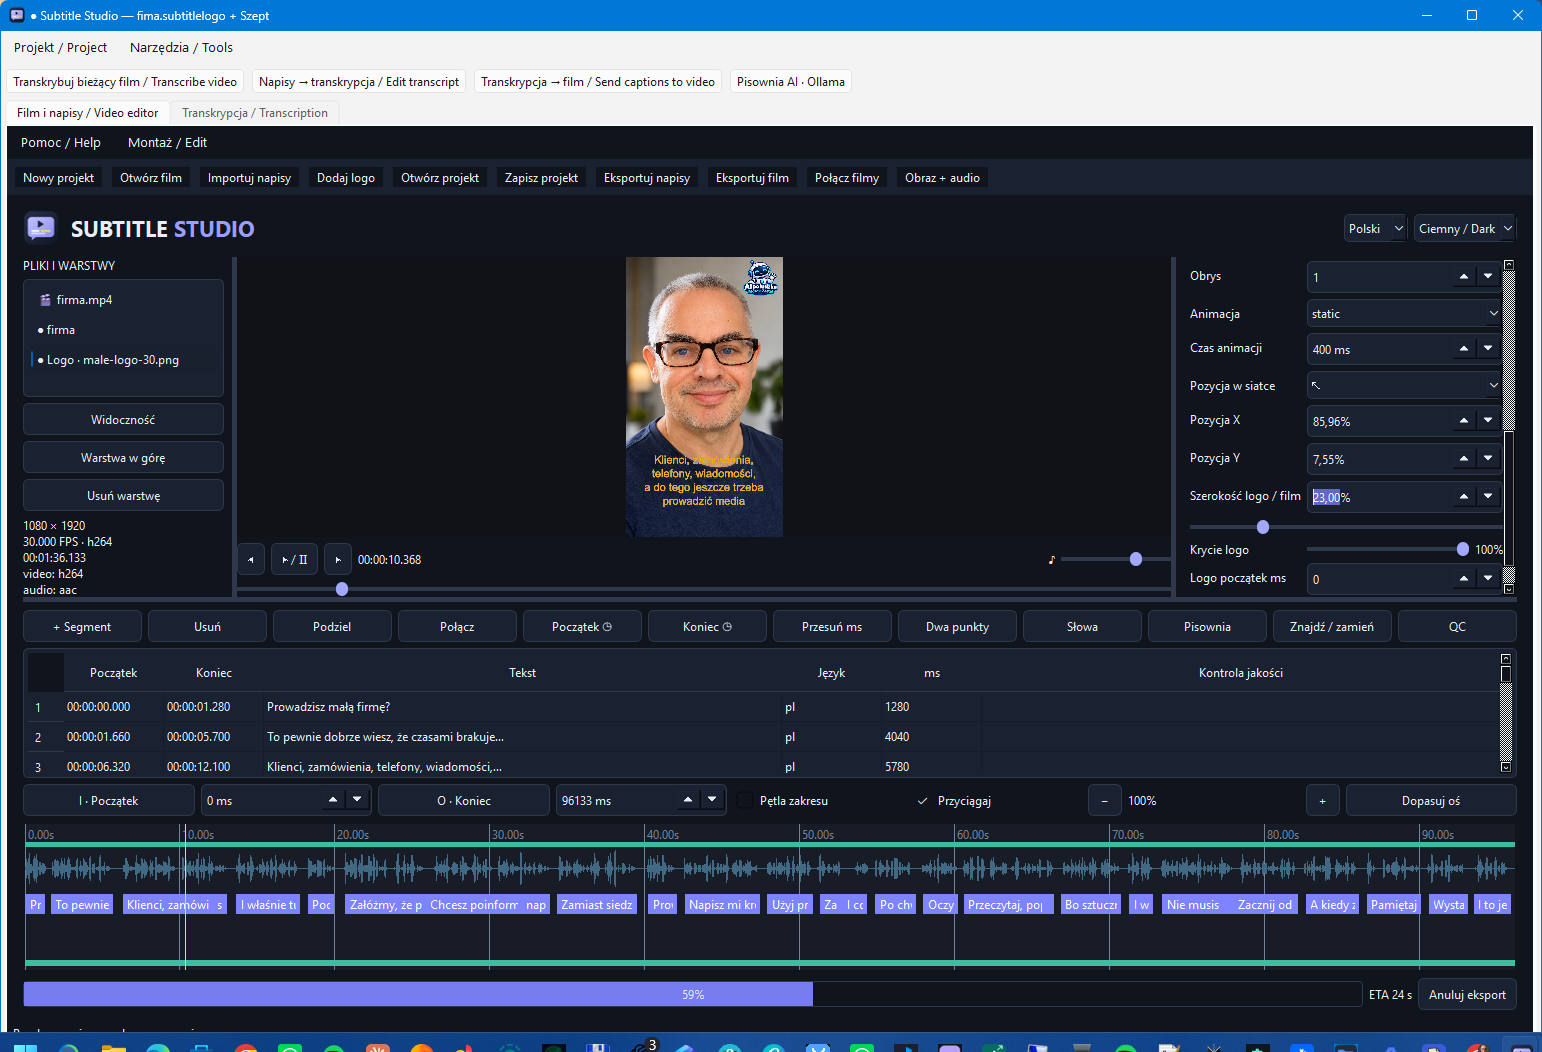
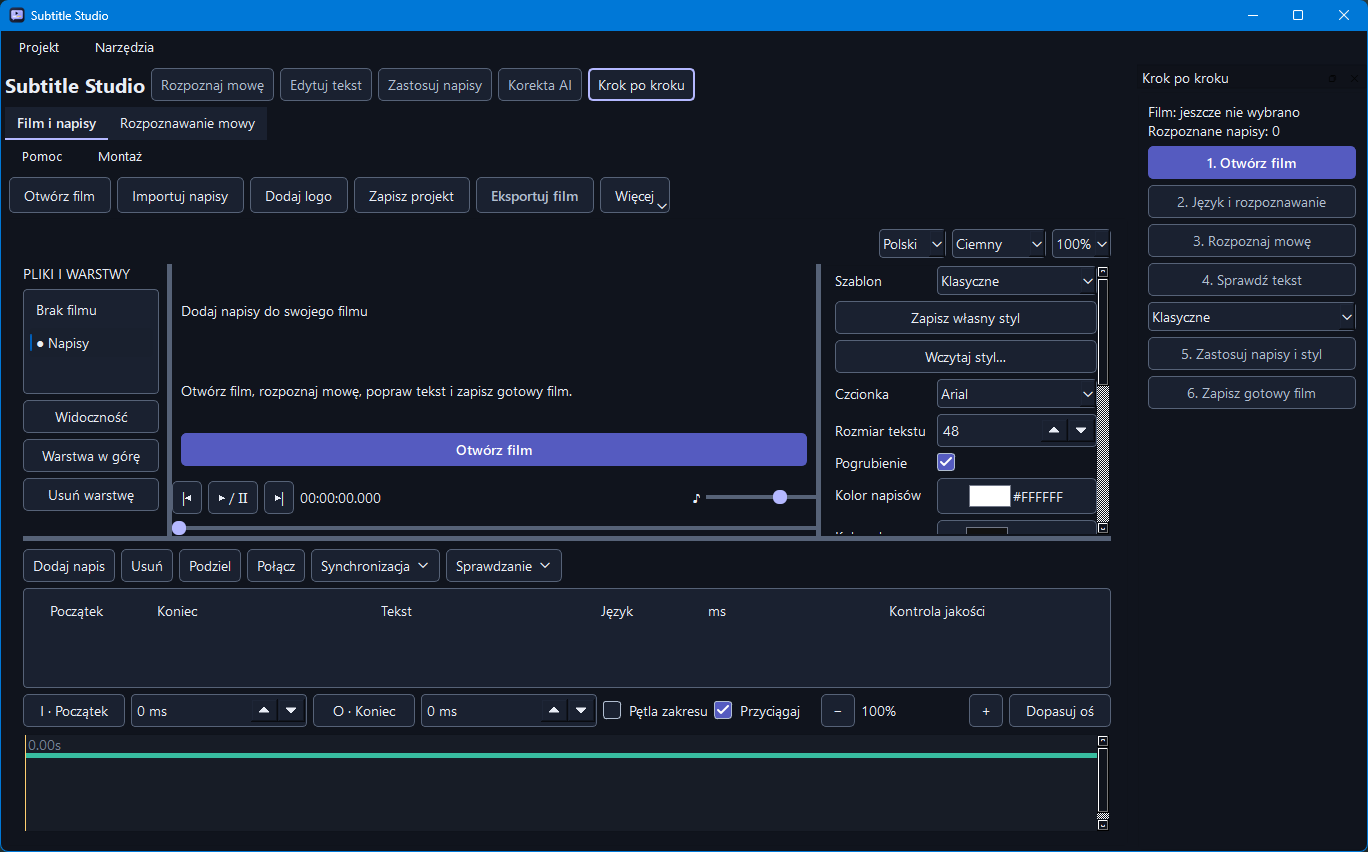
Update README screenshots for Subtitle Studio 0.7.0

diff --git a/README.md b/README.md
@@ -10,13 +10,13 @@ Poprawki ochrony danych i synchronizacji z audytu, wspólny projekt obu kart, ak
 
 ## Zrzuty ekranu
 
-Lokalna transkrypcja filmu i edycja rozpoznanych napisów w module Szept.
+Ekran startowy z edytorem napisów i przewodnikiem „Krok po kroku”.
 
-![Transkrypcja filmu w module Szept z listą napisów i uwagami jakości](docs/screenshots/transkrypcja-szept.png)
+![Ekran startowy Subtitle Studio 0.7.0 z przyciskiem otwarcia filmu i przewodnikiem krok po kroku](docs/screenshots/edytor-filmu-i-napisow.png)
 
-Edycja filmu z napisami i logo, osią czasu, falą audio oraz eksportem.
+Kreator filmu ze zdjęcia lub klipu i osobnego nagrania audio.
 
-![Edytor filmu i napisów z podglądem, logo, osią czasu i postępem eksportu](docs/screenshots/edytor-filmu-i-napisow.png)
+![Kreator filmu z obrazu i audio z ustawieniami proporcji, rozmiaru i dopasowania obrazu](docs/screenshots/film-z-obrazu-i-audio.png)
 
 ## Integracja Szept — wersja 0.5.0
 
